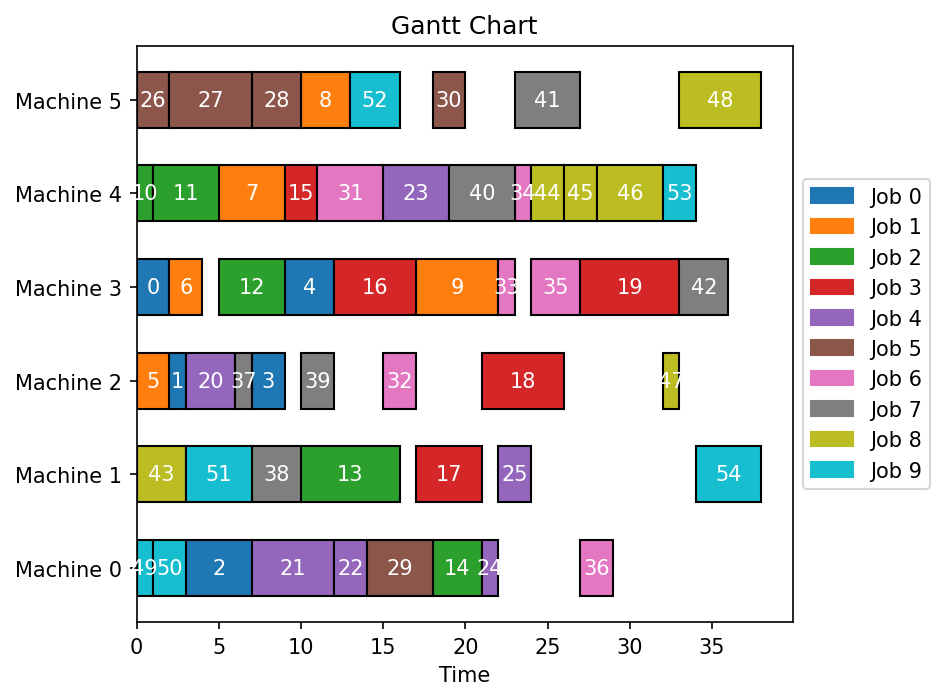
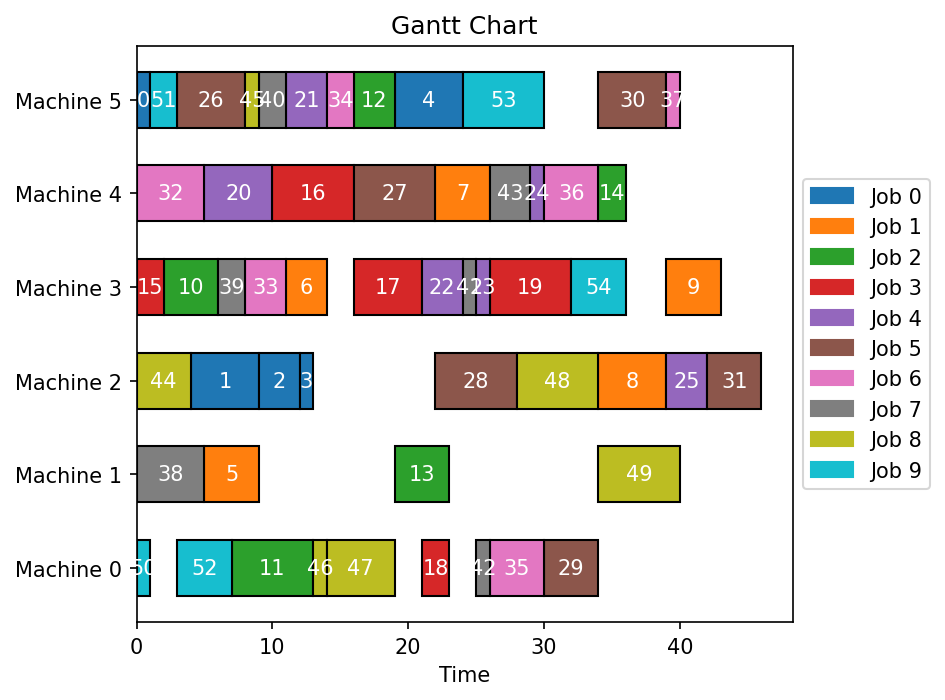
scheduling a batch.. but not in parallell

diff --git a/code/scheduling/schedule.py b/code/scheduling/schedule.py
@@ -1276,6 +1276,17 @@ def schedule_single_instance_mautil(
     num_jobs = td["job_ops_adj"].shape[1]
     job_counter = [0 for _ in range(num_jobs)]
 
+    # track order of assignments
+    prev_adj = td["ma_assignment"].clone()
+
+    ordered_assignments = torch.zeros_like(
+        prev_adj,
+        dtype=torch.float
+    )
+
+    actions_assigned = 0
+
+    # schedule
     while not td['done'].all():
 
         scheduled = False
@@ -1325,7 +1336,21 @@ def schedule_single_instance_mautil(
             td = env.step(td)["next"]
             job_counter[ job ] += 1
             scheduled = True
-           
+
+            # track order of assignments
+            if order:
+                new_adj = td["ma_assignment"]
+                diff = (
+                    (new_adj == 1)
+                    & (prev_adj == 0)
+                )
+                if diff.any():
+                    actions_assigned += 1
+                    ordered_assignments[
+                        diff
+                    ] = actions_assigned
+                prev_adj = new_adj.clone()
+            
 
 
         # IMPORTANT:
@@ -1356,7 +1381,7 @@ def schedule_single_instance_mautil(
         print(invalid.any())
         print(torch.where(invalid))
 
-
+    '''
     path_save_image = f'/cluster/datastore/vemundvb/diffusion/diff_project/mindre_prosjekt/code/inference/sched_mautil.png'
     env.render(td, 0)
     if path_save_image:
@@ -1365,15 +1390,11 @@ def schedule_single_instance_mautil(
             dpi=150,
             bbox_inches='tight'
         )
-
-
-    ordered_assignments = None
-    exit()
-
-    return (
-        td,
-        ordered_assignments
-    )
+    '''
+    if order:
+        return td, ordered_assignments
+    else:
+        return td, None
 
 
 def schedule_batch_instances_mautil(
@@ -1411,8 +1432,7 @@ def schedule_batch_instances_mautil(
 
         (
             td_single,
-            ordered_assignments,
-            actions_taken
+            ordered_assignments
         ) = schedule_single_instance_mautil(
             td_single,
             env,
@@ -1428,11 +1448,6 @@ def schedule_batch_instances_mautil(
             ordered_assignments
         )
 
-        if b == 0:
-
-            actions_taken_b0 = (
-                actions_taken
-            )
 
     # -------------------------------------------------
     # Concatenate outputs
@@ -1450,8 +1465,7 @@ def schedule_batch_instances_mautil(
 
     return (
         td_scheduled,
-        ordered_assignments,
-        actions_taken_b0
+        ordered_assignments
     )
 
 

diff --git a/code/dataset_code/dataset_maker.py b/code/dataset_code/dataset_maker.py
@@ -49,8 +49,9 @@ def make_target(env: FJSPEnv, td: TensorDict, checkpoint_path: str, order: bool 
                     select_best=True,
                     return_actions=True)
     actions = out["actions"]
-    td_scheduled, ordered_assignments = schedule_actions_batch(env, actions, td.copy(), order)
 
+
+    td_scheduled, ordered_assignments = schedule_actions_batch(env, actions, td.copy(), order)
     return td_scheduled, actions, ordered_assignments
 
 
@@ -67,45 +68,9 @@ def make_target_ma_util(env: FJSPEnv, td: TensorDict, checkpoint_path: str, orde
     actions = out["actions"]
 
     actions_modified = modify_actions_batch_mautil(actions, td.copy())
+    td_scheduled, ordered_assignments = schedule_batch_instances_mautil(env, td.copy(), actions_modified)
 
-    print(actions_modified[0])
-    machines = (((actions_modified[0] - 1) % 6) + 1)
-    machine_2_mask = (machines == 2)
-    machine_2_actions = actions_modified[0][machine_2_mask]
-    count_machine_2 = machine_2_actions.numel()
-    print("Machine 2 actions:")
-    print(machine_2_actions)
-    print("Count:")
-    print(count_machine_2)
-
-
-    td_scheduled, ordered_assignments, actions_taken_b0 = schedule_batch_instances_mautil(env, td, actions_modified)
-    print('============')
-
-
-    print(actions_taken_b0)
-    machines = (((actions_taken_b0 - 1) % 6) + 1)
-    machine_2_mask = (machines == 2)
-    machine_2_actions = actions_taken_b0[machine_2_mask]
-    count_machine_2 = machine_2_actions.numel()
-    print("Machine 2 actions:")
-    print(machine_2_actions)
-    print("Count:")
-    print(count_machine_2)
-
-
-
-    path_save_image = '/cluster/datastore/vemundvb/diffusion/diff_project/mindre_prosjekt/code/dataset_code/sched.png'
-    env.render(td_scheduled, 0)
-    if path_save_image:
-        plt.savefig(path_save_image, dpi=150, bbox_inches='tight')
-        print(f"Saved scheduled image at path {path_save_image}")
-
-    print('exit')
-    exit()
-
-
-    return td_scheduled, actions, ordered_assignments
+    return td_scheduled, actions_modified, ordered_assignments
 
 
 

diff --git a/code/dataset_code/dataset_utils.py b/code/dataset_code/dataset_utils.py
@@ -148,7 +148,7 @@ def make_dataset(n: int, dataset_folder: str,
 # TODO endre batch_size tilbake til 1280
 def make_dataset_ma_util(n: int, dataset_folder: str, 
                  n_jobs, n_ma, max_op_per_job, min_op_per_job, max_proc_time, min_proc_time, max_eligable_ma_per_op, min_eligable_ma_per_op,
-                 target_model: str, order: bool, batch_size: int = 32, startpoint: int = 0):
+                 target_model: str, order: bool, batch_size: int = 1280, startpoint: int = 0):
 
     logging.info("Making dataset... in mautil")
     print('in matuil making dataset..')
@@ -166,7 +166,7 @@ def make_dataset_ma_util(n: int, dataset_folder: str,
             min_eligable_ma_per_op=min_eligable_ma_per_op, 
             batch_size=batch_size)
 
-        td_target, ordered_assignments = code.dataset_code.dataset_maker.make_target_ma_util(env, td.copy(), target_model, order)
+        td_target, actions, ordered_assignments = code.dataset_code.dataset_maker.make_target_ma_util(env, td.copy(), target_model, order)
 
         td.set('opt_assignment', td_target['ma_assignment'])
         td.set('opt_actions', torch.tensor(actions))

diff --git a/code/dataset_code/main.py b/code/dataset_code/main.py
@@ -121,6 +121,7 @@ def dataset_ma_util(problem_type):
     n = train_size + test_size
 
     target_model, _, dataset_folder, _, filepath_benchmark_instance, _, _, _, _, _ = get_benchmark_values(problem_type)
+    dataset_folder = dataset_folder + '_mautil'
 
     parameters = code.dataset_code.benchmark_utils.get_rl4co_parameters_from_brandimarte_instance(filepath_benchmark_instance)
     print(parameters)
